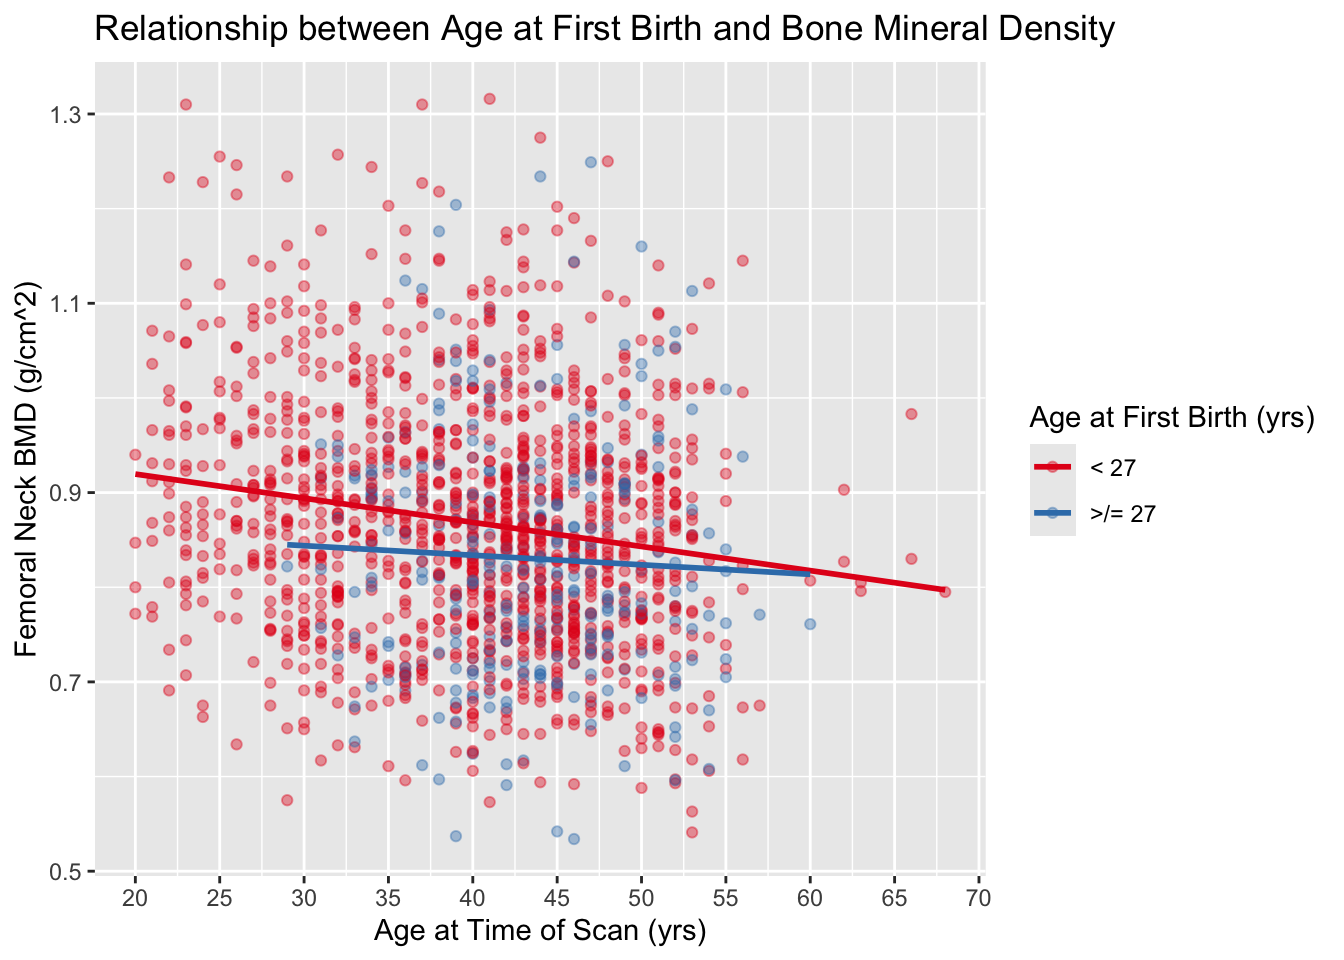
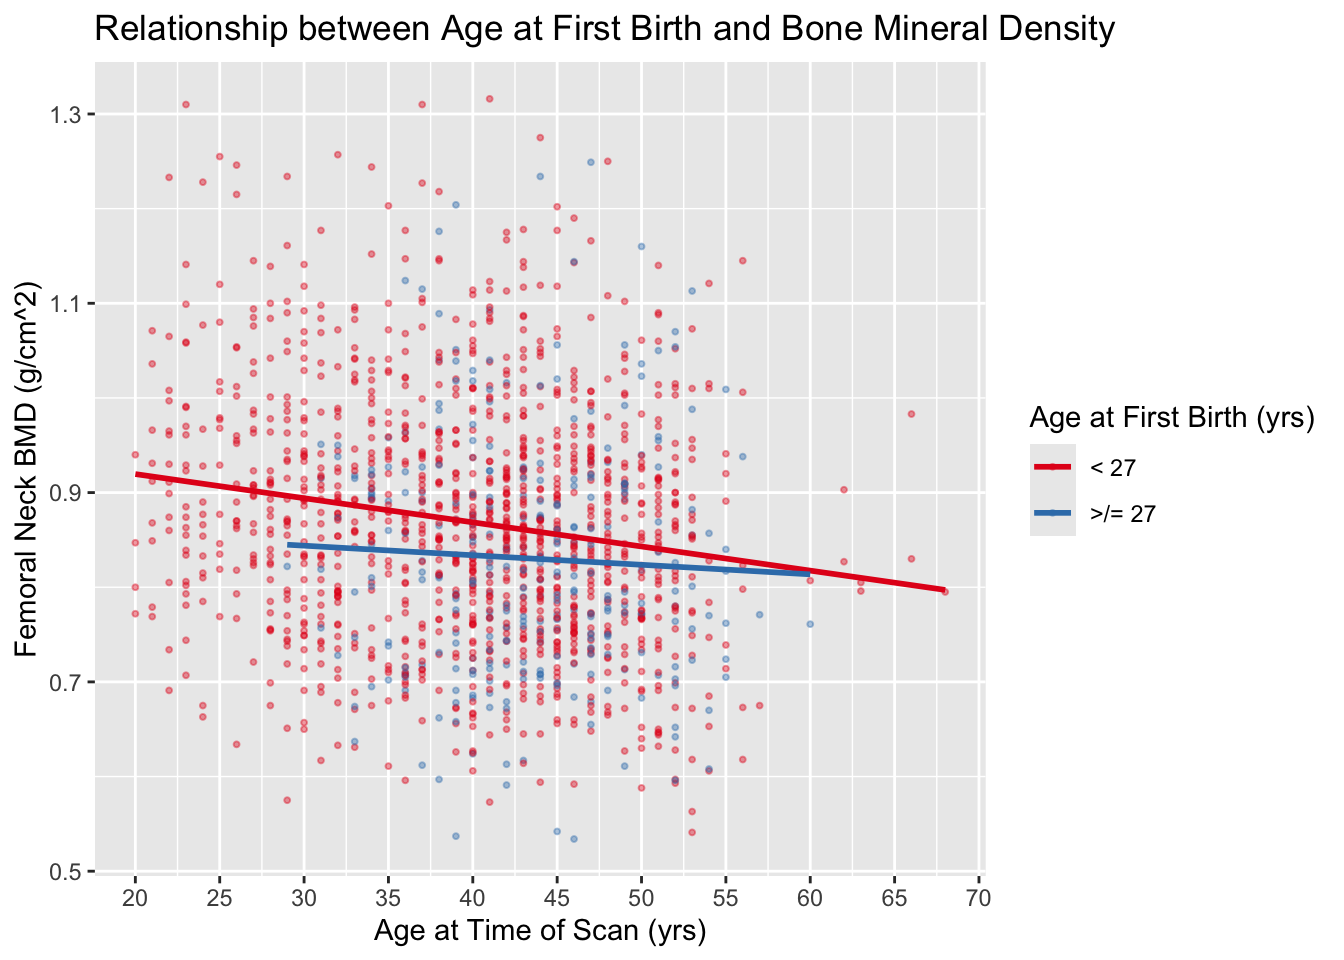
Build site.

diff --git a/docs/analysis.html b/docs/analysis.html
@@ -513,15 +513,15 @@ project makes it easier to run your code on other machines.</p>
 <div class="panel panel-default">
 <div class="panel-heading">
 <p class="panel-title">
-<a data-toggle="collapse" data-parent="#workflowr-checks" href="#strongRepositoryversionstrongahrefhttpsgithubcomcalliquireafbploaaba2025tree3853d4d8e3b5dbf5b7f75b25e7be7a337e487ea5targetblank3853d4da">
+<a data-toggle="collapse" data-parent="#workflowr-checks" href="#strongRepositoryversionstrongahrefhttpsgithubcomcalliquireafbploaaba2025treee5db396df241c3986362fe57594dc389f4a2802etargetblanke5db396a">
 <span class="glyphicon glyphicon-ok text-success"
 aria-hidden="true"></span> <strong>Repository version:</strong>
-<a href="https://github.com/calliquire/afb_plo_aaba_2025/tree/3853d4d8e3b5dbf5b7f75b25e7be7a337e487ea5" target="_blank">3853d4d</a>
+<a href="https://github.com/calliquire/afb_plo_aaba_2025/tree/e5db396df241c3986362fe57594dc389f4a2802e" target="_blank">e5db396</a>
 </a>
 </p>
 </div>
 <div
[2 lines of base64/hex data omitted]
 class="panel-collapse collapse">
 <div class="panel-body">
 <p>
@@ -531,7 +531,7 @@ reproducibility.
 </p>
 <p>
 The results in this page were generated with repository version
-<a href="https://github.com/calliquire/afb_plo_aaba_2025/tree/3853d4d8e3b5dbf5b7f75b25e7be7a337e487ea5" target="_blank">3853d4d</a>.
+<a href="https://github.com/calliquire/afb_plo_aaba_2025/tree/e5db396df241c3986362fe57594dc389f4a2802e" target="_blank">e5db396</a>.
 See the <em>Past versions</em> tab to see a history of the changes made
 to the R Markdown and HTML files.
 </p>
@@ -550,6 +550,11 @@ Ignored files:
     Ignored:    .RData
     Ignored:    .Rhistory
     Ignored:    .Rproj.user/
+
+Untracked files:
+    Untracked:  afb.pdf
+    Untracked:  par.pdf
+    Untracked:  par_afb.pdf
 
 </code></pre>
 <p>
@@ -594,6 +599,40 @@ Message
 </tr>
 </thead>
 <tbody>
+<tr>
+<td>
+Rmd
+</td>
+<td>
+<a href="https://github.com/calliquire/afb_plo_aaba_2025/blob/e5db396df241c3986362fe57594dc389f4a2802e/analysis/analysis.Rmd" target="_blank">e5db396</a>
+</td>
+<td>
+Calli Quire
+</td>
+<td>
+2025-03-11
+</td>
+<td>
+wflow_publish("analysis/analysis.Rmd")
+</td>
+</tr>
+<tr>
+<td>
+html
+</td>
+<td>
+<a href="https://rawcdn.githack.com/calliquire/afb_plo_aaba_2025/938f38ffa6019c7f798882febad5c044f26d9f12/docs/analysis.html" target="_blank">938f38f</a>
+</td>
+<td>
+Calli Quire
+</td>
+<td>
+2025-03-11
+</td>
+<td>
+Build site.
+</td>
+</tr>
 <tr>
 <td>
 Rmd
@@ -1797,61 +1836,61 @@ more actual analysis
 <h2>Download, install, run relevant packages</h2>
 <pre><code>
 The downloaded binary packages are in
-    /var/folders/ps/8glpgwws46q79hzcgj61tlsr0000gn/T//Rtmp2PZTHI/downloaded_packages</code></pre>
+    /var/folders/ps/8glpgwws46q79hzcgj61tlsr0000gn/T//RtmpX3UdB5/downloaded_packages</code></pre>
 <pre><code>
 The downloaded binary packages are in
-    /var/folders/ps/8glpgwws46q79hzcgj61tlsr0000gn/T//Rtmp2PZTHI/downloaded_packages</code></pre>
+    /var/folders/ps/8glpgwws46q79hzcgj61tlsr0000gn/T//RtmpX3UdB5/downloaded_packages</code></pre>
 <pre><code>
 The downloaded binary packages are in
-    /var/folders/ps/8glpgwws46q79hzcgj61tlsr0000gn/T//Rtmp2PZTHI/downloaded_packages</code></pre>
+    /var/folders/ps/8glpgwws46q79hzcgj61tlsr0000gn/T//RtmpX3UdB5/downloaded_packages</code></pre>
 <pre><code>
 The downloaded binary packages are in
-    /var/folders/ps/8glpgwws46q79hzcgj61tlsr0000gn/T//Rtmp2PZTHI/downloaded_packages</code></pre>
+    /var/folders/ps/8glpgwws46q79hzcgj61tlsr0000gn/T//RtmpX3UdB5/downloaded_packages</code></pre>
 <pre><code>
 The downloaded binary packages are in
-    /var/folders/ps/8glpgwws46q79hzcgj61tlsr0000gn/T//Rtmp2PZTHI/downloaded_packages</code></pre>
+    /var/folders/ps/8glpgwws46q79hzcgj61tlsr0000gn/T//RtmpX3UdB5/downloaded_packages</code></pre>
 <pre><code>
 The downloaded binary packages are in
-    /var/folders/ps/8glpgwws46q79hzcgj61tlsr0000gn/T//Rtmp2PZTHI/downloaded_packages</code></pre>
+    /var/folders/ps/8glpgwws46q79hzcgj61tlsr0000gn/T//RtmpX3UdB5/downloaded_packages</code></pre>
 <pre><code>
 The downloaded binary packages are in
-    /var/folders/ps/8glpgwws46q79hzcgj61tlsr0000gn/T//Rtmp2PZTHI/downloaded_packages</code></pre>
+    /var/folders/ps/8glpgwws46q79hzcgj61tlsr0000gn/T//RtmpX3UdB5/downloaded_packages</code></pre>
 <pre><code>
 The downloaded binary packages are in
-    /var/folders/ps/8glpgwws46q79hzcgj61tlsr0000gn/T//Rtmp2PZTHI/downloaded_packages</code></pre>
+    /var/folders/ps/8glpgwws46q79hzcgj61tlsr0000gn/T//RtmpX3UdB5/downloaded_packages</code></pre>
 <pre><code>
 The downloaded binary packages are in
-    /var/folders/ps/8glpgwws46q79hzcgj61tlsr0000gn/T//Rtmp2PZTHI/downloaded_packages</code></pre>
+    /var/folders/ps/8glpgwws46q79hzcgj61tlsr0000gn/T//RtmpX3UdB5/downloaded_packages</code></pre>
 <pre><code>
 The downloaded binary packages are in
-    /var/folders/ps/8glpgwws46q79hzcgj61tlsr0000gn/T//Rtmp2PZTHI/downloaded_packages</code></pre>
+    /var/folders/ps/8glpgwws46q79hzcgj61tlsr0000gn/T//RtmpX3UdB5/downloaded_packages</code></pre>
 <pre><code>
 The downloaded binary packages are in
-    /var/folders/ps/8glpgwws46q79hzcgj61tlsr0000gn/T//Rtmp2PZTHI/downloaded_packages</code></pre>
+    /var/folders/ps/8glpgwws46q79hzcgj61tlsr0000gn/T//RtmpX3UdB5/downloaded_packages</code></pre>
 <pre><code>
 The downloaded binary packages are in
-    /var/folders/ps/8glpgwws46q79hzcgj61tlsr0000gn/T//Rtmp2PZTHI/downloaded_packages</code></pre>
+    /var/folders/ps/8glpgwws46q79hzcgj61tlsr0000gn/T//RtmpX3UdB5/downloaded_packages</code></pre>
 <pre><code>
 The downloaded binary packages are in
-    /var/folders/ps/8glpgwws46q79hzcgj61tlsr0000gn/T//Rtmp2PZTHI/downloaded_packages</code></pre>
+    /var/folders/ps/8glpgwws46q79hzcgj61tlsr0000gn/T//RtmpX3UdB5/downloaded_packages</code></pre>
 <pre><code>
 The downloaded binary packages are in
-    /var/folders/ps/8glpgwws46q79hzcgj61tlsr0000gn/T//Rtmp2PZTHI/downloaded_packages</code></pre>
+    /var/folders/ps/8glpgwws46q79hzcgj61tlsr0000gn/T//RtmpX3UdB5/downloaded_packages</code></pre>
 <pre><code>
 The downloaded binary packages are in
-    /var/folders/ps/8glpgwws46q79hzcgj61tlsr0000gn/T//Rtmp2PZTHI/downloaded_packages</code></pre>
+    /var/folders/ps/8glpgwws46q79hzcgj61tlsr0000gn/T//RtmpX3UdB5/downloaded_packages</code></pre>
 <pre><code>
 The downloaded binary packages are in
-    /var/folders/ps/8glpgwws46q79hzcgj61tlsr0000gn/T//Rtmp2PZTHI/downloaded_packages</code></pre>
+    /var/folders/ps/8glpgwws46q79hzcgj61tlsr0000gn/T//RtmpX3UdB5/downloaded_packages</code></pre>
 <pre><code>
 The downloaded binary packages are in
-    /var/folders/ps/8glpgwws46q79hzcgj61tlsr0000gn/T//Rtmp2PZTHI/downloaded_packages</code></pre>
+    /var/folders/ps/8glpgwws46q79hzcgj61tlsr0000gn/T//RtmpX3UdB5/downloaded_packages</code></pre>
 <pre><code>
 The downloaded binary packages are in
-    /var/folders/ps/8glpgwws46q79hzcgj61tlsr0000gn/T//Rtmp2PZTHI/downloaded_packages</code></pre>
+    /var/folders/ps/8glpgwws46q79hzcgj61tlsr0000gn/T//RtmpX3UdB5/downloaded_packages</code></pre>
 <pre><code>
 The downloaded binary packages are in
-    /var/folders/ps/8glpgwws46q79hzcgj61tlsr0000gn/T//Rtmp2PZTHI/downloaded_packages</code></pre>
+    /var/folders/ps/8glpgwws46q79hzcgj61tlsr0000gn/T//RtmpX3UdB5/downloaded_packages</code></pre>
 <pre><code>
 Attaching package: &#39;dplyr&#39;</code></pre>
 <pre><code>The following objects are masked from &#39;package:stats&#39;:
@@ -2723,7 +2762,7 @@ Calli Quire
 <pre class="r"><code># ***********************afb
 plot5 &lt;-
   ggplot(df, aes(x = AGE, y = BMD, color = BINS)) + 
-  geom_point(alpha = 0.4) +
+  geom_point(size = 0.7, alpha = 0.4) +
   labs(title = &quot;Relationship between Age at First Birth and Bone Mineral Density&quot;, x = &quot;Age at Time of Scan (yrs)&quot;, y = &quot;Femoral Neck BMD (g/cm^2)&quot;, color = &quot;Age at First Birth (yrs)&quot;) +
   scale_color_brewer(palette = &quot;Set1&quot;) +
   scale_x_continuous(breaks = seq(0, 70, by = 5)) +
@@ -2753,6 +2792,17 @@ Date
 </tr>
 </thead>
 <tbody>
+<tr>
+<td>
+<a href="https://github.com/calliquire/afb_plo_aaba_2025/blob/938f38ffa6019c7f798882febad5c044f26d9f12/docs/figure/analysis.Rmd/unnamed-chunk-20-6.png" target="_blank">938f38f</a>
+</td>
+<td>
+Calli Quire
+</td>
+<td>
+2025-03-11
+</td>
+</tr>
 <tr>
 <td>
 <a href="https://github.com/calliquire/afb_plo_aaba_2025/blob/5deec848632ecebc1d965d248fcd2c88b3dfc8b4/docs/figure/analysis.Rmd/unnamed-chunk-20-6.png" target="_blank">5deec84</a>
@@ -3068,7 +3118,7 @@ Signif. codes:  0 &#39;***&#39; 0.001 &#39;**&#39; 0.01 &#39;*&#39; 0.05 &#39;.&
 <pre class="r"><code># ********************* parity
 plot6 &lt;- 
   ggplot(df2, aes(x = AGE, y = BMD, color = PARBIN)) +
-  geom_point(alpha = 0.4) +
+  geom_point(size = 0.7, alpha = 0.3) +
   scale_color_brewer(palette = &quot;Set1&quot;, breaks = c(&#39;Nulliparous&#39;, &#39;1-3&#39;, &#39;4-6&#39;, &#39;7-9&#39;, &#39;10+&#39;)) +
   scale_x_continuous(breaks = seq(0, 70, by = 5)) +
   labs(title = &quot;Relationship between Parity and Bone Mineral Density&quot;, x = &quot;Age at Time of Scan (yrs)&quot;, y = &quot;Femoral Neck BMD (g/cm^2)&quot;, color = &quot;Parity (live births/indiv.)&quot;) +
@@ -3098,6 +3148,17 @@ Date
 </tr>
 </thead>
 <tbody>
+<tr>
+<td>
+<a href="https://github.com/calliquire/afb_plo_aaba_2025/blob/938f38ffa6019c7f798882febad5c044f26d9f12/docs/figure/analysis.Rmd/unnamed-chunk-33-1.png" target="_blank">938f38f</a>
+</td>
+<td>
+Calli Quire
+</td>
+<td>
+2025-03-11
+</td>
+</tr>
 <tr>
 <td>
 <a href="https://github.com/calliquire/afb_plo_aaba_2025/blob/5deec848632ecebc1d965d248fcd2c88b3dfc8b4/docs/figure/analysis.Rmd/unnamed-chunk-33-1.png" target="_blank">5deec84</a>
@@ -3167,6 +3228,17 @@ Date
 </tr>
 </thead>
 <tbody>
+<tr>
+<td>
+<a href="https://github.com/calliquire/afb_plo_aaba_2025/blob/938f38ffa6019c7f798882febad5c044f26d9f12/docs/figure/analysis.Rmd/unnamed-chunk-34-1.png" target="_blank">938f38f</a>
+</td>
+<td>
+Calli Quire
+</td>
+<td>
+2025-03-11
+</td>
+</tr>
 <tr>
 <td>
 <a href="https://github.com/calliquire/afb_plo_aaba_2025/blob/5deec848632ecebc1d965d248fcd2c88b3dfc8b4/docs/figure/analysis.Rmd/unnamed-chunk-34-1.png" target="_blank">5deec84</a>
